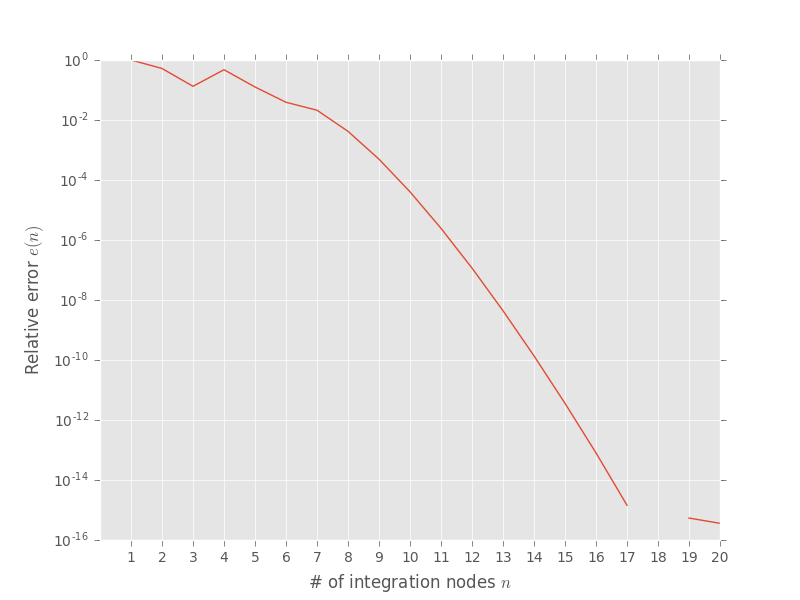
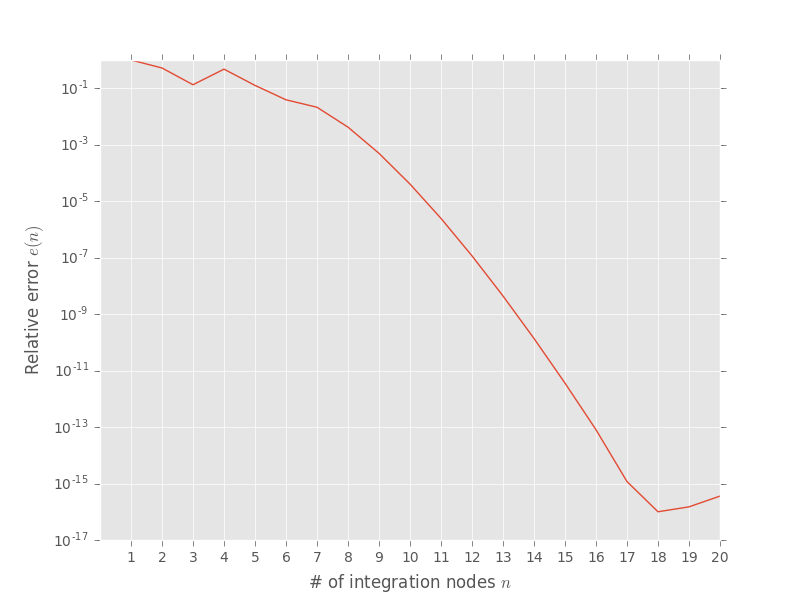
minifiks

diff --git a/Gauss_Legendre.py b/Gauss_Legendre.py
@@ -4,19 +4,21 @@ import sys
 import numpy as np
 from math import *
 ################################################################################
-ERRORTOL = 1e-15
-EPS = 1e-25
-ITERATIONCAP = 2000
+# from decimal import *
+# getcontext().prec = 28
+ERRORTOL = 1e-14
+EPS = 1e-20
+ITERATIONCAP = 100
 
 def XML_Extraction(xmlfile):
     tree = et.parse(xmlfile)
     root = tree.getroot()
     f = lambda x : eval(root[0].text)
-    analytical = float(eval(root[1].text))
+    analytical = float((eval(root[1].text)))
     return [f, analytical]
 
 def Gauss_Legendre_Data(n):
-    
+    assert(n > 0)
     # find the n roots of L_{n}(x). Since the roots are symmetric about x = 0,
     # we only need to calculate the floor(n / 2) roots in (0, 1]. This
     # also reduces the required calculations for the weights
@@ -38,19 +40,23 @@ def Gauss_Legendre_Data(n):
 
 def Olver(n, x0):
     x = x0
-    xprev = x
     for i in range(ITERATIONCAP):
         L0_x = Legendre_0(n, x)
         L1_x = Legendre_1(n, x, L0_x)
         L2_x = Legendre_2(n, x, L1_x)
         
-        assert(np.abs(L1_x[-1]) > EPS)
-        x = x - L0_x[-1] / L1_x[-1] - L2_x[-1] * L0_x[-1]**2 / (2 * L1_x[-1]**3)
-        current_error = np.abs(xprev - x)
-        xprev = x
+        L0 = L0_x[-1]
+        L1 = L1_x[-1]
+        L2 = L2_x[-1]
         
-        if (current_error < ERRORTOL):
+        assert(np.abs(L1) > EPS)
+        delta_x = -L0 / L1 - L2 * L0**2 / (2 * L1**3)
+        x += delta_x
+        
+        if (np.abs(delta_x) < ERRORTOL):
+            print(i + 1)
             return x
+            
     assert(False)
 
 def Legendre_0(n, x):
@@ -82,6 +88,7 @@ def Legendre_1(n, x, L0):
 def Legendre_2(n, x, L1):
     if n == 0:
         return [0]
+    # case x == +-1 (?)
     # result = [ L_0''(x), ..., L_n''(x) ]
     result = [0, 0]
     for i in range (2, n + 1):
@@ -89,11 +96,11 @@ def Legendre_2(n, x, L1):
     return result
     
 
-def Gauss_Legendre_Quadrature(n, G, f):   
+def Gauss_Legendre_Quadrature(n, G, f):
     assert(n > 0)
     result = 0
     for i in range(n):
-        result += G[1][i] * f(G[0][i])
+        result += G[1][i] * f(G[0][i]) 
     return result
 
 def Return_Quadrature(xmlfile, n):
@@ -106,8 +113,11 @@ def Return_Quadrature(xmlfile, n):
     
     return [numeric, analytic]
 
-
-
-
+"""for i in range (1, 20 + 1):
+    guess = [ ( np.cos((2 * j - 1) * np.pi / (2 * i + 1)) + np.cos(2 * j * np.pi / (2 * i + 1)) ) / 2 for j in range(1, int(np.floor(i / 2)) + 1) ]
+    for x in guess:
+        xi = Olver(i, x)
+        print(Legendre_0(i, xi)[-1])
+        assert(Legendre_0(i, xi)[-1] < ERRORTOL)"""
 
 

diff --git a/Quadrature_Analysis.py b/Quadrature_Analysis.py
@@ -1,6 +1,8 @@
 ################################################################################
 import os
 import sys
+from math import *
+from decimal import *
 import numpy as np
 import matplotlib as mpl
 import matplotlib.pyplot as plt
